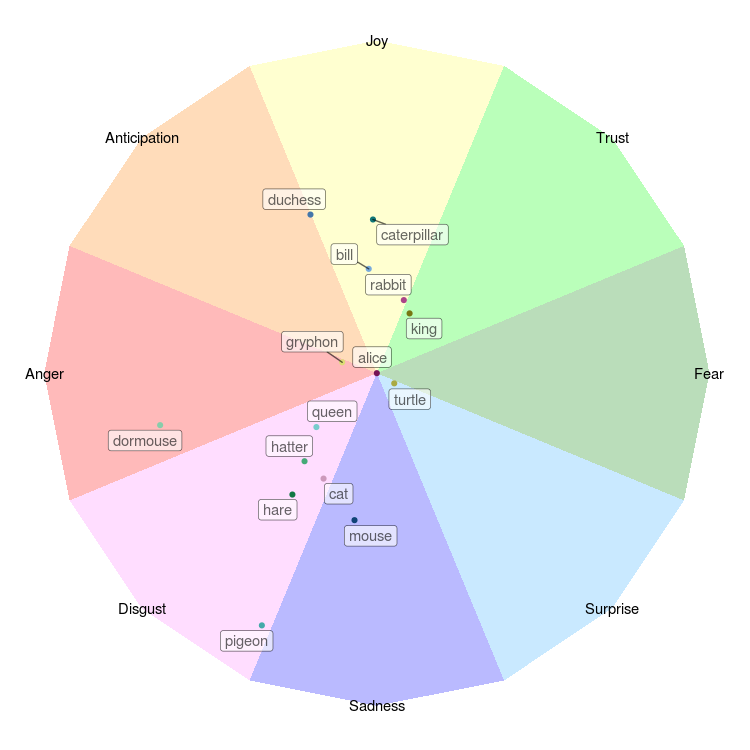
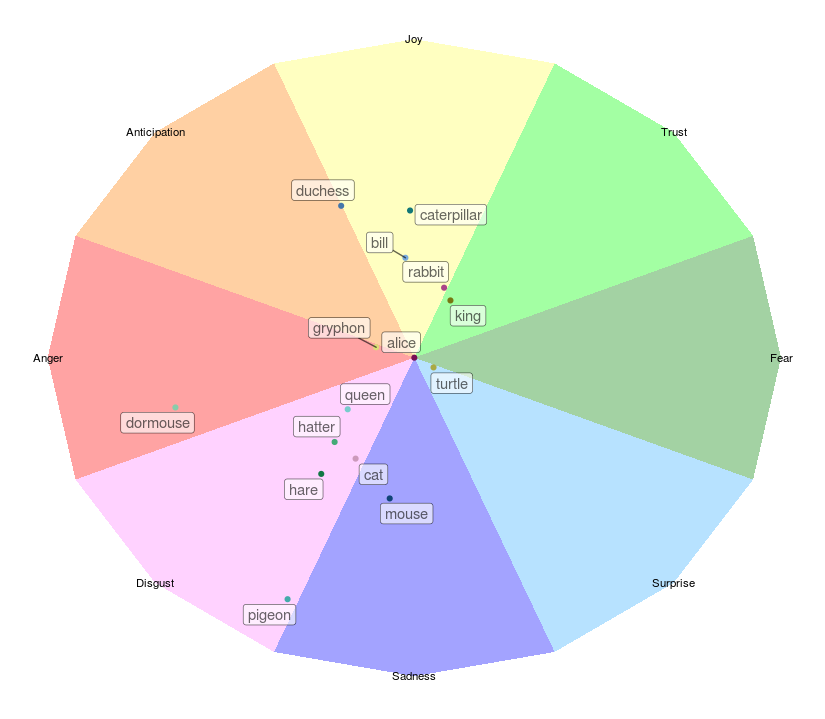
Testing responsive image

diff --git a/_pages/tutorials/mining-alices-wonderland/mining-alices-wonderland.md b/_pages/tutorials/mining-alices-wonderland/mining-alices-wonderland.md
@@ -462,10 +462,11 @@ plutchik_wheel(max_radius) +
   scale_color_manual(values = personea_colors) +
   guides(col = FALSE)
 ```
+{:refdef: style="text-align: center;"}
 <a href="/_pages/tutorials/mining-alices-wonderland/sentiment-centers.png" target="_blank">
-<img src="/_pages/tutorials/mining-alices-wonderland/sentiment-centers.png" alt="Sentiment centers" width="100%" height="100%" align="center"/>
+<img src="/_pages/tutorials/mining-alices-wonderland/sentiment-centers.png" alt="Sentiment centers" width="70%" height="70%" align="center"/>
 <i class='fa fa-search-plus '></i> Zoom</a>
-
+{: refdef}
 
 The total script can be downloaded from [here](https://gist.github.com/mark-me/d080979ce8beb595faf1dcab38b6e392)
 
